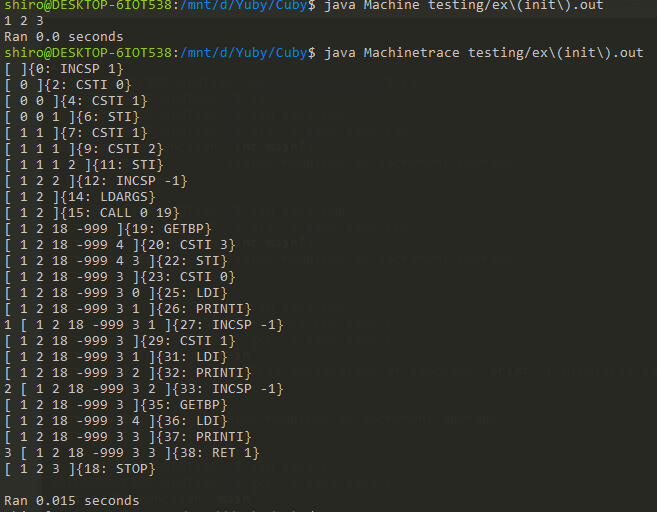
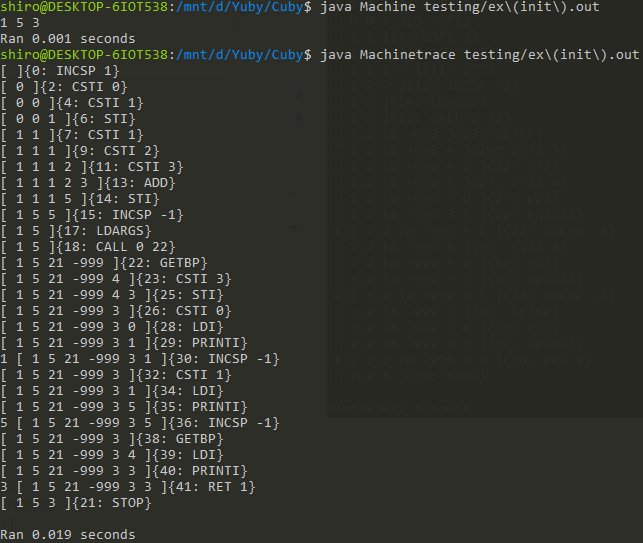
merge

Changed region(s): [[0.0, 0.0, 0.9953, 0.9375], [0.0, 0.9688, 0.2177, 1.0]]

diff --git a/Cuby/testing/ex(if).c b/Cuby/testing/ex(if).c
@@ -1,0 +1,13 @@
+int main(){
+    int a = 2;
+    if (a == 1){
+        print 1;
+    }else if(a == 3){
+        print 3;
+    }else if(a == 4){
+        print 4;
+    }else if(a == 2){
+        print 2;
+    }
+
+}

diff --git a/Cuby/testing/ex(chars).c b/Cuby/testing/ex(chars).c
@@ -1,6 +1,8 @@
 
-string a="213456";
+// string a="213456";
 int main ()
 {
-    int a = 7;
+    
+    // int a = 7;
+    print 'c';
 }

diff --git a/Cuby/testing/ex(range).c b/Cuby/testing/ex(range).c
@@ -6,5 +6,6 @@ int main()
     for n in (3..7)
     {
         s = s+n;
+        print s;
     }
 }

diff --git a/Cuby/testing/ex(init).c b/Cuby/testing/ex(init).c
@@ -1,5 +1,5 @@
 int a = 1;
-int b = 2;
+int b = 2 + 3;
 
 int main(){
     int c = 3;

diff --git a/Cuby/testing/ex(float).c b/Cuby/testing/ex(float).c
@@ -1,0 +1,3 @@
+int main(){
+    double a = 1.0;
+}

diff --git a/README.md b/README.md
@@ -104,7 +104,7 @@ int main(){
 ```C
 // new (ex(init).c)
 int a = 1;
-int b = 2;
+int b = 2 + 3;
 
 int main(){
     int c = 3;
